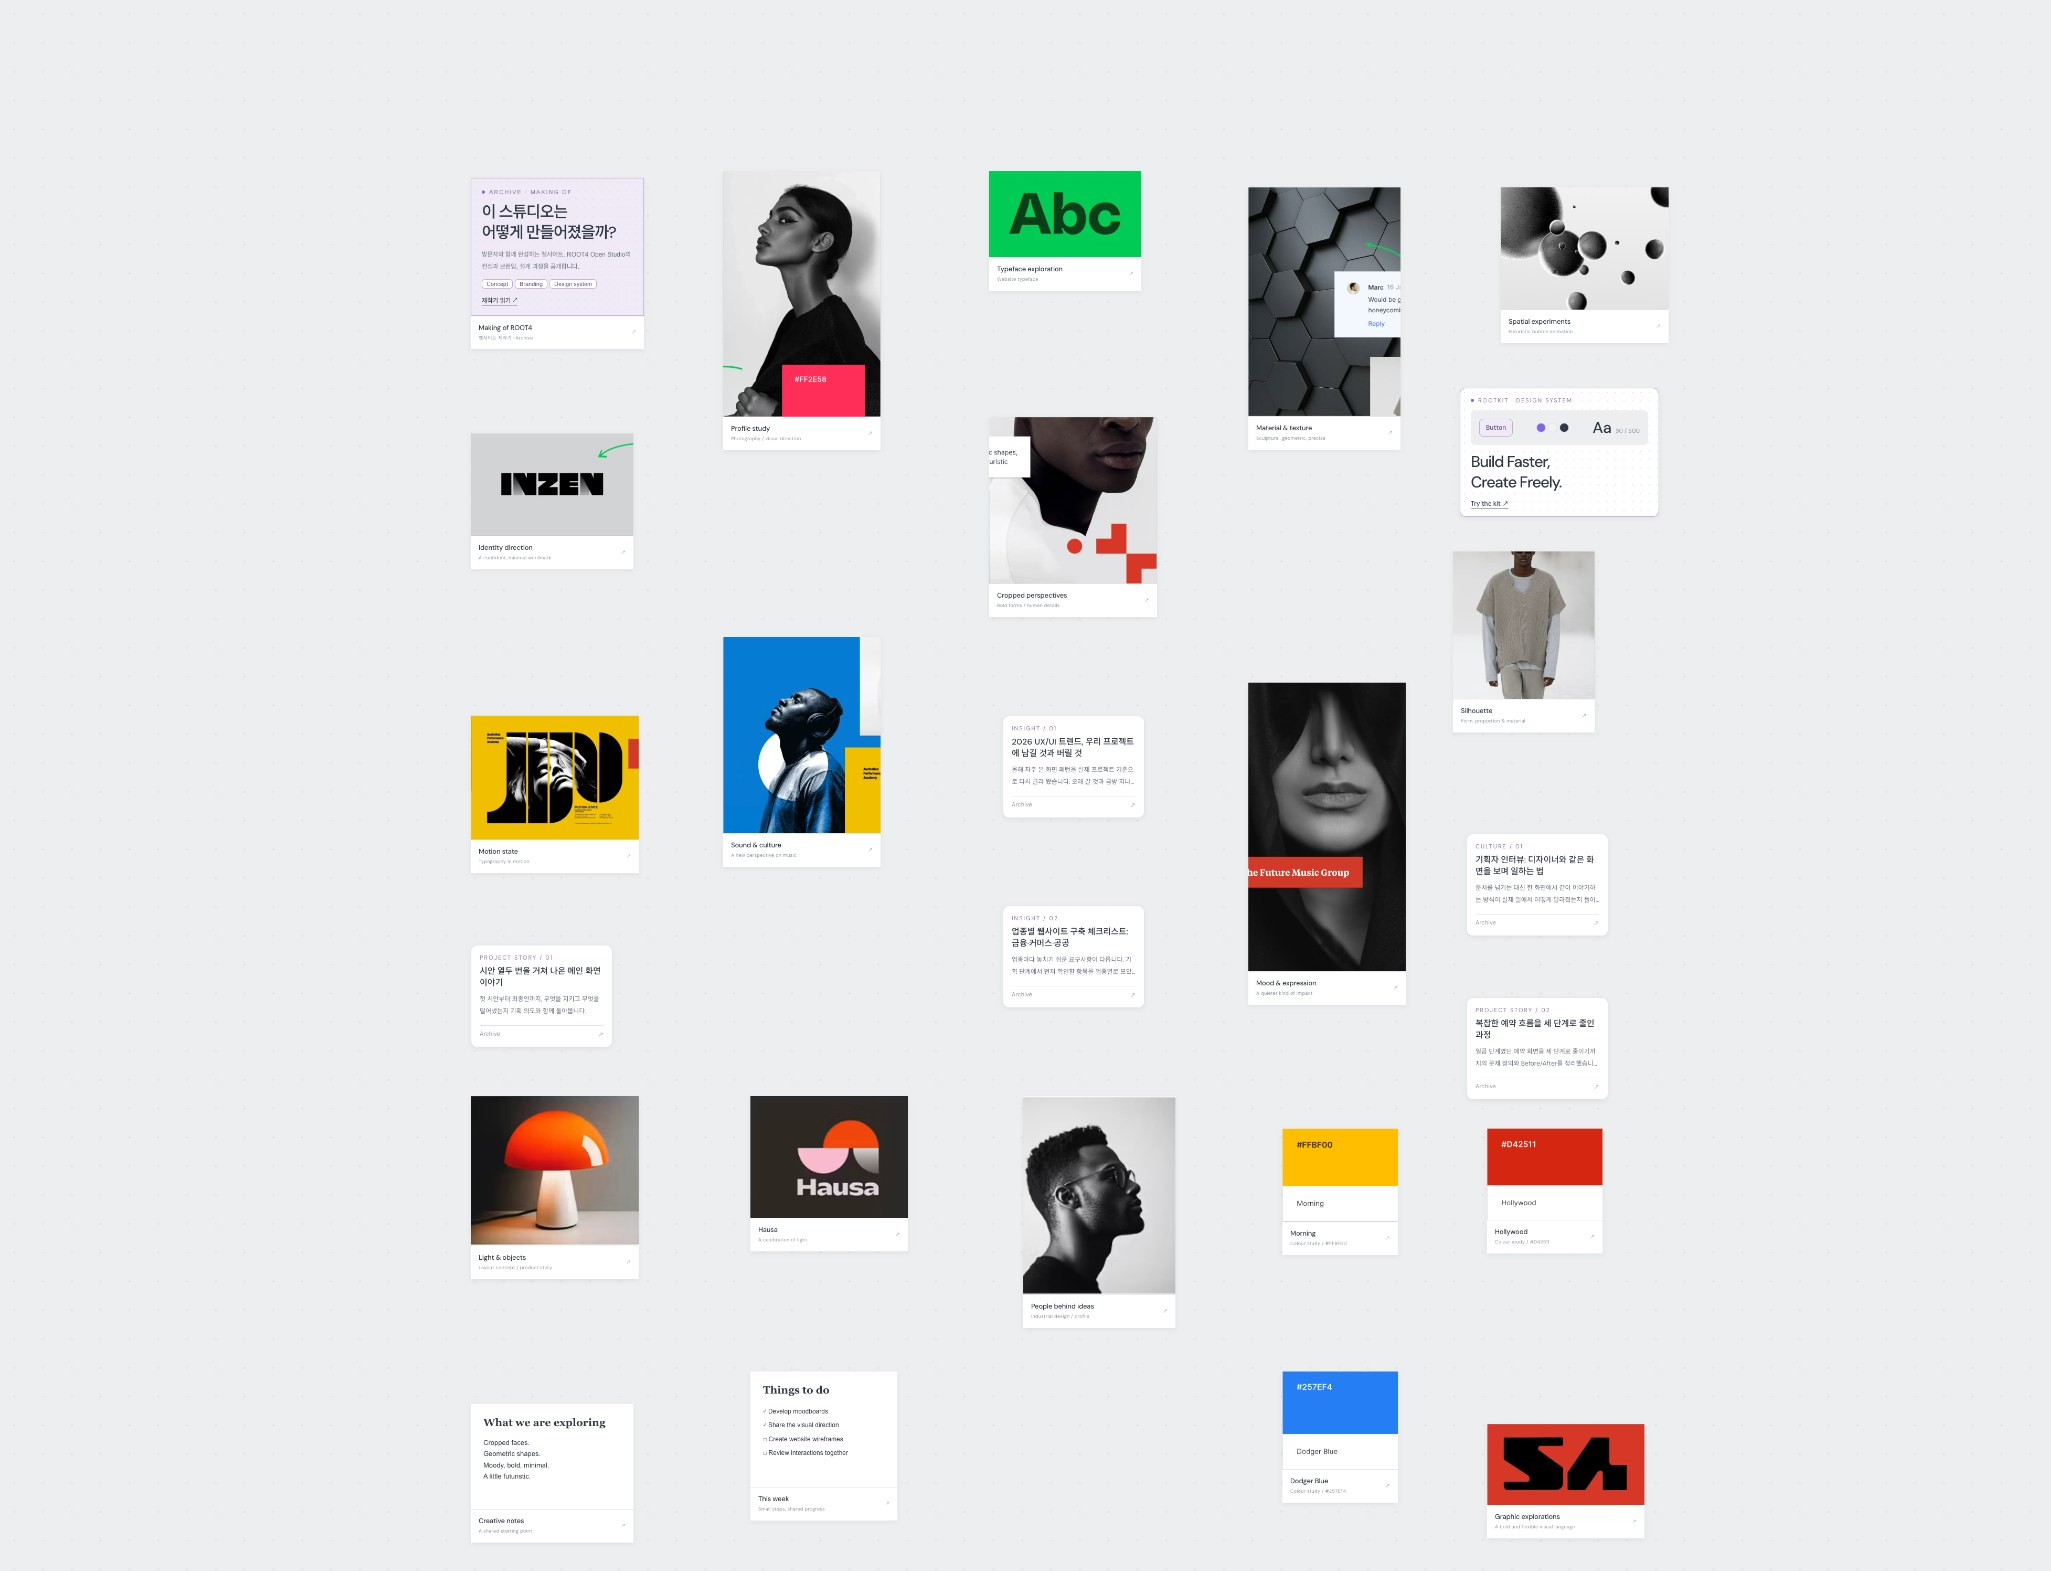
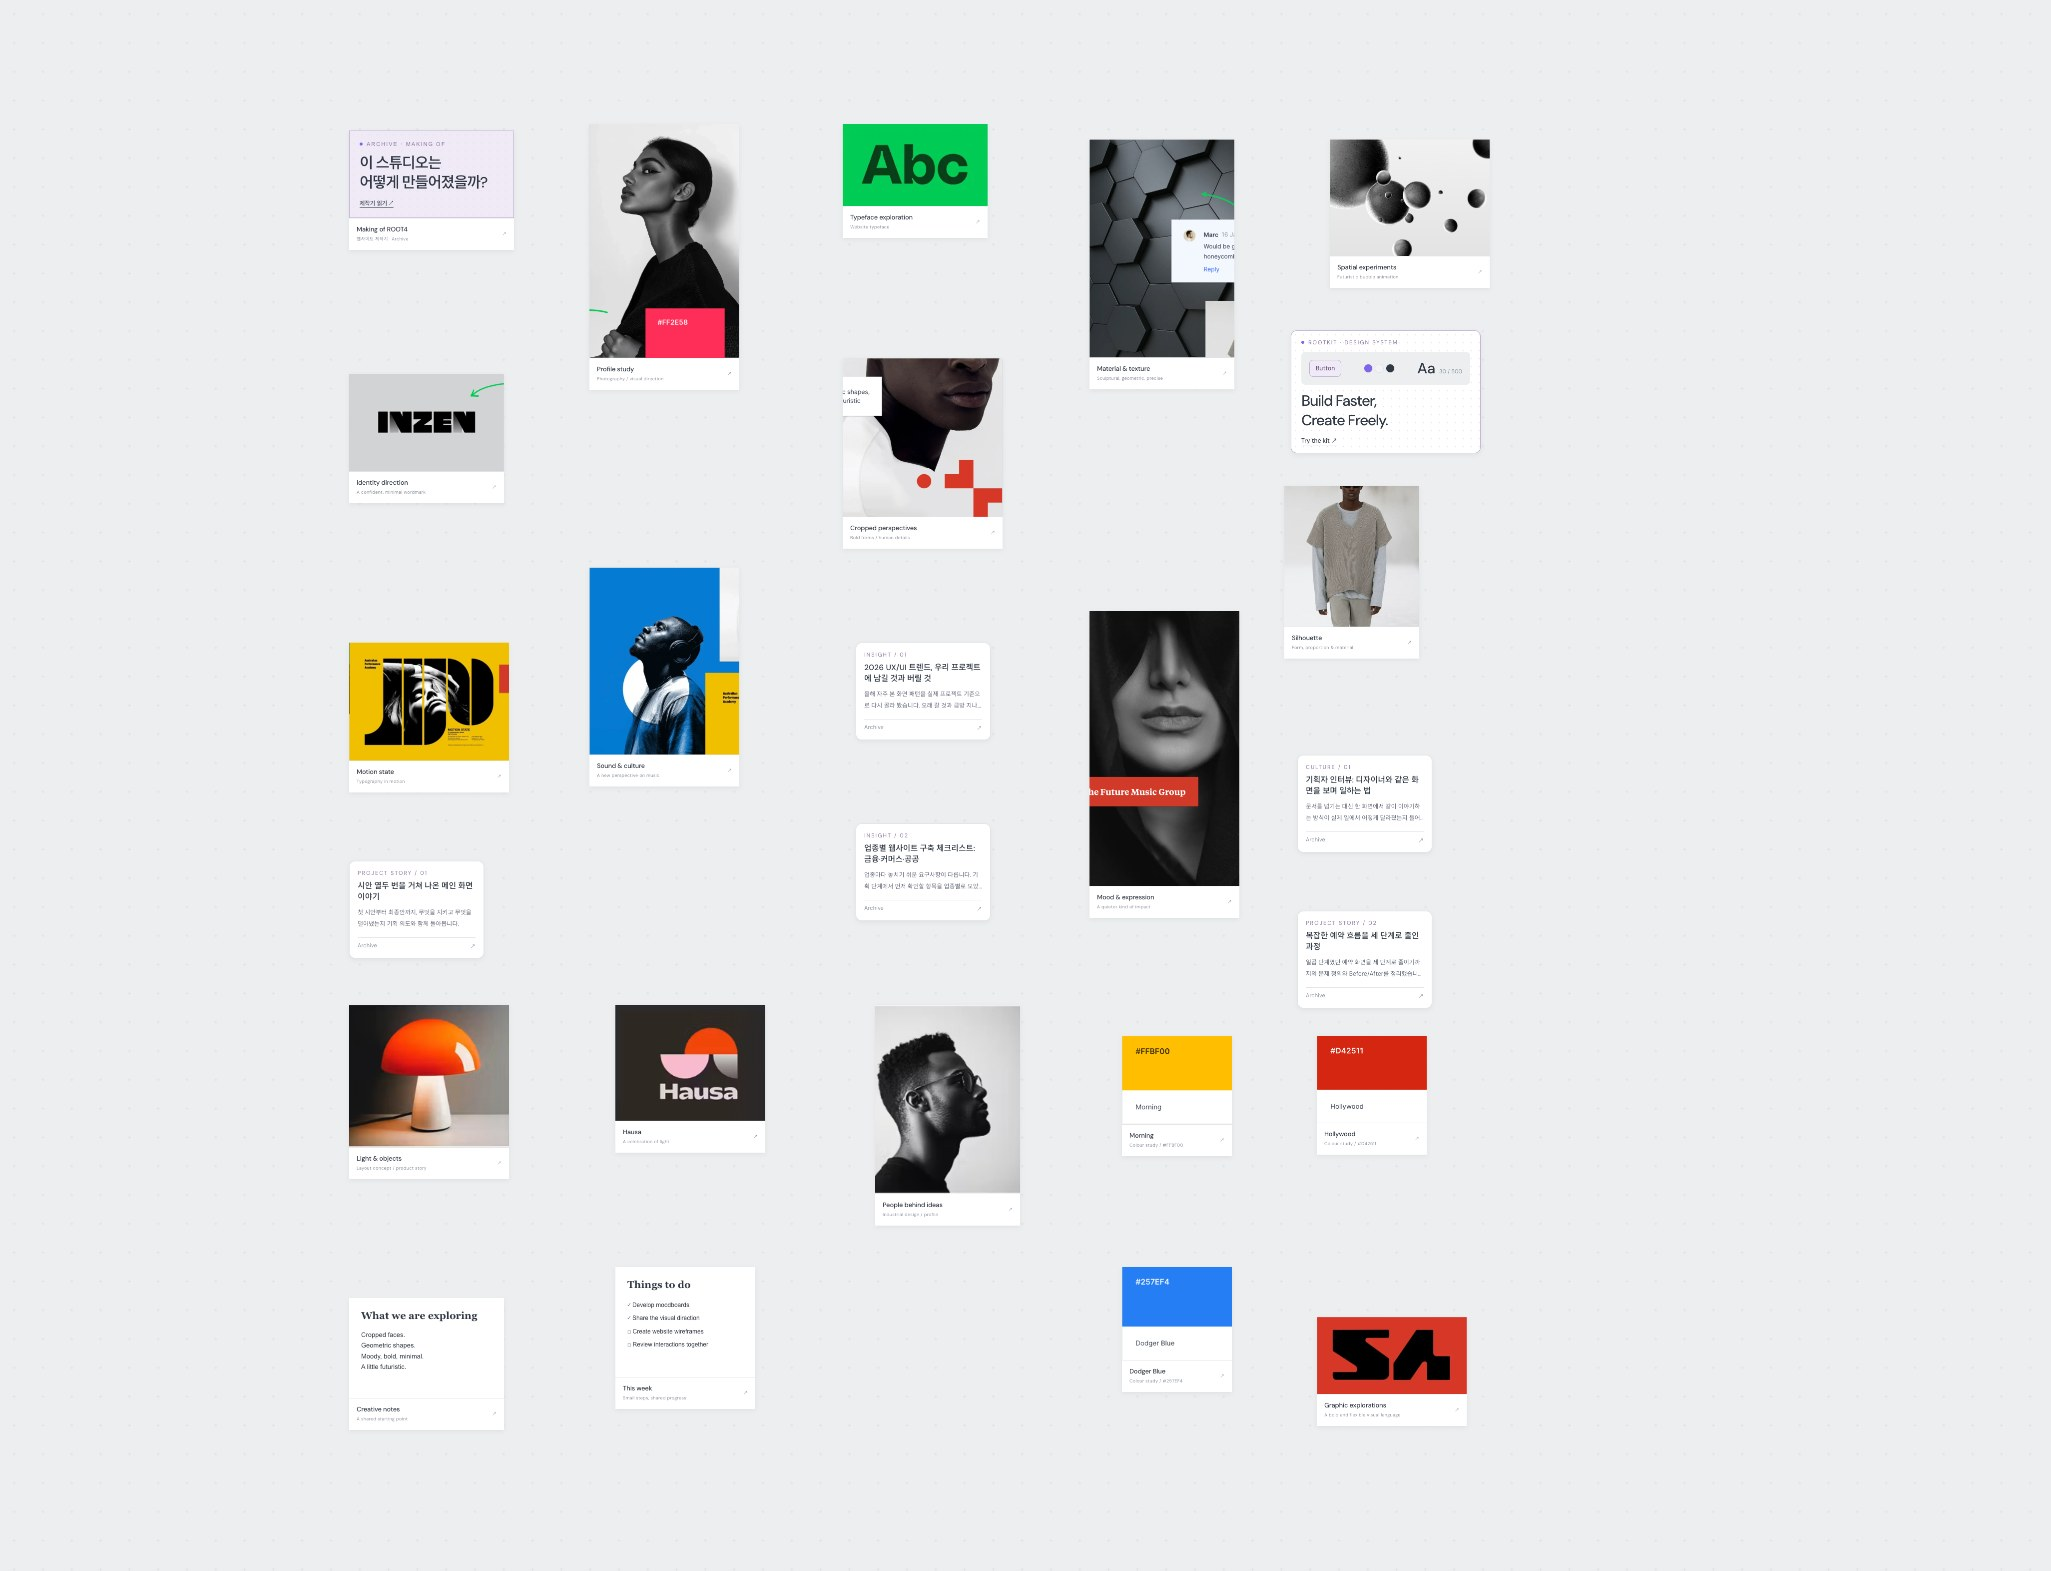
projects: 제작기 카드 글을 줄이고, 자동 투어 대화가 이 카드에서 제작기 이야기를 하게
- 카드: ARCHIVE · MAKING OF / 제목 / 제작기 읽기만 남김 (요약·태그 삭제)
- 팀 대화(reviewScenes 0번): 컨셉 → 색·글자 규칙 → 한 벌의 규칙으로 합친 과정
- 제작기 글의 보드 캡처도 다시 찍음

diff --git a/projects/projects.js b/projects/projects.js
@@ -245,8 +245,6 @@ window.ROOT4_BOARD_SPREAD = { x: 1.3, y: 1.25, ox: 70, oy: 70 };
       art.innerHTML =
         '<span class="projects-mo-eyebrow"><i aria-hidden="true"></i>ARCHIVE · MAKING OF</span>' +
         '<span class="projects-mo-title">이 스튜디오는<br>어떻게 만들어졌을까?</span>' +
-        '<span class="projects-mo-desc">방문자와 함께 완성하는 웹사이트, ROOT4 Open Studio의 컨셉과 브랜딩, 설계 과정을 공개합니다.</span>' +
-        '<span class="projects-mo-tags"><b>Concept</b><b>Branding</b><b>Design system</b></span>' +
         '<span class="projects-mo-cta">제작기 읽기 <span aria-hidden="true">↗</span></span>';
     }
     var cap = node.querySelector(".minimal-caption");
@@ -254,6 +252,15 @@ window.ROOT4_BOARD_SPREAD = { x: 1.3, y: 1.25, ox: 70, oy: 70 };
     node.setAttribute("aria-label", "Making of ROOT4 — 이 스튜디오는 어떻게 만들어졌을까? 제작기 읽기");
     /* 시안의 팀 대화·검색이 쓰는 이름 */
     try { titles[0] = "Making of ROOT4 — 웹사이트 제작기"; desc[0] = "ROOT4 Open Studio의 컨셉과 브랜딩, 설계 과정을 소개하는 제작기입니다."; } catch (e) {}
+    /* 왼쪽 팀 대화: 자동 투어가 이 카드에 오면 제작기 이야기를 합니다 (시안 reviewScenes의 0번 장면) */
+    try {
+      var scene = reviewScenes.filter(function (sc) { return sc.id === 0; })[0];
+      if (scene) scene.lines = [
+        ["기획팀 · 준", "이 카드는 우리 사이트 제작기예요. 방문자와 함께 완성하는 스튜디오라는 컨셉에서 출발했어요."],
+        ["디자인팀 · 민지", "조용한 회색 바탕에 보라 한 점. 색과 글자 규칙을 먼저 정하고 화면을 만들었어요."],
+        ["개발팀 · 현우", "규칙을 한 벌로 맞춰 두니, 여럿이 나눠 만든 메뉴가 하나의 사이트로 합쳐졌어요."],
+      ];
+    } catch (e) {}
     /* 모바일 List 첫 카드 */
     var m = document.querySelector(".mobile-project-card");
     if (m) {

diff --git a/projects/projects.css b/projects/projects.css
@@ -276,21 +276,6 @@ body[data-menu="projects"] #world .node.projects-makingof .art {
   line-height: var(--type-heading-lg-line);
   letter-spacing: var(--type-heading-lg-tracking);
 }
-.projects-mo-desc {
-  color: var(--text-secondary);
-  font-size: var(--type-body-sm-size);
-  line-height: var(--type-body-sm-line);
-}
-.projects-mo-tags { display: flex; flex-wrap: wrap; gap: var(--space-4); }
-.projects-mo-tags b {
-  padding: 2px var(--space-8);
-  border: 1px solid var(--border-accent);
-  border-radius: var(--radius-chip);
-  background: var(--surface-panel);
-  color: var(--text-accent);
-  font-size: var(--type-label-sm-size);
-  font-weight: 400;
-}
 .projects-mo-cta {
   margin-top: var(--space-4);
   font-size: var(--type-label-md-size);

diff --git a/screens/projects.md b/screens/projects.md
@@ -74,7 +74,7 @@ A. 작업 공간 — 왼쪽 대화 패널 316 + 오른쪽 보드 캔버스.
 ## 10. 보드 사이사이의 다른 메뉴 카드 (2026-11-26)
 
 - **01 About the project(Project brief) 카드는 프로젝트가 아니라 홈페이지 제작기 글**입니다. 누르면 Archive 글 `project-story-04`로 갑니다(`projects-data.js`의 `archive` 필드). 프로젝트 상세 `?p=01`로 직접 오면 그 글로 보내고, '다음 프로젝트'에서도 건너뜁니다.
-- 01 카드는 **제작기 강조 카드**로 그립니다(`projects.js` makingOf, `projects.css` 5번): 테두리 `--border-accent` + 점선 격자 + 연보라 바탕, `ARCHIVE · MAKING OF` / `이 스튜디오는 어떻게 만들어졌을까?` / 요약 / 태그 Concept·Branding·Design system / `제작기 읽기 ↗`. 아래 이름은 `Making of ROOT4`.
+- 01 카드는 **제작기 강조 카드**로 그립니다(`projects.js` makingOf, `projects.css` 5번): 테두리 `--border-accent` + 점선 격자 + 연보라 바탕, `ARCHIVE · MAKING OF` / `이 스튜디오는 어떻게 만들어졌을까?` / `제작기 읽기 ↗`(글은 짧게). 아래 이름은 `Making of ROOT4`. 자동 투어가 이 카드에 오면 왼쪽 팀 대화도 제작기 이야기를 합니다(시안 `reviewScenes` 0번 장면을 바꿈).
 - **카드 간격:** 모든 카드 자리를 보드 왼쪽 위(70, 70) 기준으로 가로 1.3배·세로 1.25배 퍼뜨립니다(`ROOT4_BOARD_SPREAD`). 시안 카메라가 쓰는 `positions`도 같이 바꾸고, 원위치(⌖) 버튼은 퍼뜨린 보드 전체가 보이게 맞춥니다. RootKit·Archive 카드 자리(`SPOT_*`)도 같은 배율이 적용됩니다.
 
 프로젝트 카드 사이에 다른 메뉴로 들어가는 카드를 섞어 둡니다. 프로젝트 카드(`.node`)가 아니라서 번호(01–20)와 필터 개수에 들어가지 않습니다.
